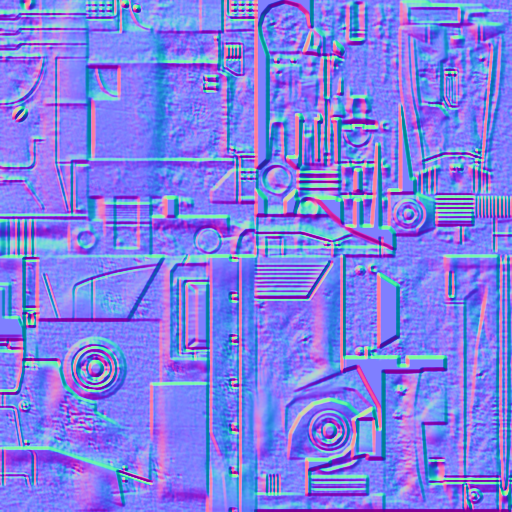
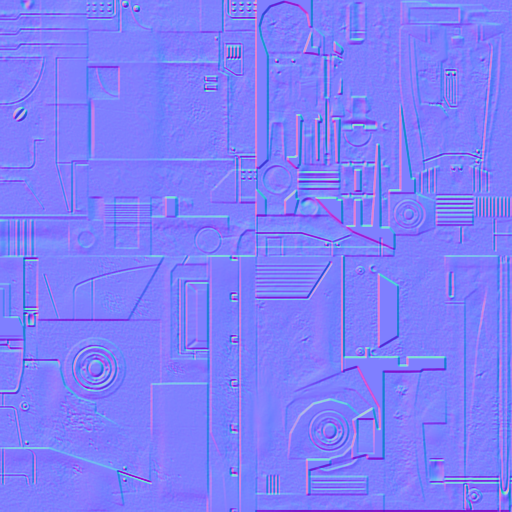
bump mapping works!

diff --git a/IETEngine/RenderingController.h b/IETEngine/RenderingController.h
@@ -156,9 +156,9 @@ namespace Controller
 	{
 		AbstractController::Init(argc,argv);  
 
-		this->d_camera->Position = glm::vec3(0.0f,0.0f,20.0f);
+		this->d_camera->Position = glm::vec3(0.0f,0.0f,0.0f);
 		d_camera->CameraType = FREE_FLY;
-		d_camera->MovementSpeed = 2.0f;
+		d_camera->MovementSpeed = 0.1f;
 		d_camera->SetTarget(glm::vec3(0,0,0)); 
 
 		//I know it may sound strange but new lambdas in C++ 11 are like this :-) I miss C# a bit :P
@@ -212,12 +212,12 @@ namespace Controller
 
 		d_sky_box = new SkyBox(skybox_faces);
 
-		d_nano_model	= new Model(FLOOR_BUMP);
+		d_nano_model	= new Model(DROID_BUMP);
 		/*d_torus_model->Translate(glm::vec3(-30,0,0));
 		d_cube_model->Translate(glm::vec3(-30,0,0));*/
 		//	d_torus_model->Scale(glm::vec3(10,10,10));
 		//d_nano_model->Scale(glm::vec3(20.0f,20.0f,20.0f));
-		//d_nano_model->Rotate(glm::vec3(1,0,0),glm::radians(-90.0f));
+		d_nano_model->Rotate(glm::vec3(1,0,0),glm::radians(-90.0f));
 		tweak_bar_setup();
 
 		d_light_position = glm::vec3(-10.0f,20.0f,0.0f); 
@@ -303,7 +303,7 @@ namespace Controller
 		d_shader_skybox->SetUniform("mvp", d_projection_matrix * glm::mat4(glm::mat3(d_view_matrix)));
 		d_shader_skybox->SetUniform("model_matrix", glm::mat4(1));
 
-	//	d_sky_box->Draw(*d_shader_skybox);
+		d_sky_box->Draw(*d_shader_skybox);
 
 
 		Point p(d_light_position,glm::vec4(1.0f,0.0f,0.0f,1.0f));

diff --git a/IETEngine/Texture.h b/IETEngine/Texture.h
@@ -75,15 +75,17 @@ bool Texture::Load(string directory)
 	//unsigned char* image = SOIL_load_image(filename.c_str(), &width, &height, nullptr, 0);
 	// Assign texture to ID
 	glBindTexture(GL_TEXTURE_2D, id);
-	glTexImage2D(GL_TEXTURE_2D,  0, GL_RGB, image->columns(), image->rows(), 0, GL_RGBA, GL_UNSIGNED_BYTE, blob.data());
+	glTexImage2D(GL_TEXTURE_2D,  0, GL_RGBA, image->columns(), image->rows(), 0, GL_RGBA, GL_UNSIGNED_BYTE, blob.data());
 
 	// Parameters
-	glTexParameteri( GL_TEXTURE_2D, GL_TEXTURE_WRAP_S, GL_REPEAT );
+	/*glTexParameteri( GL_TEXTURE_2D, GL_TEXTURE_WRAP_S, GL_REPEAT );
 	glTexParameteri( GL_TEXTURE_2D, GL_TEXTURE_WRAP_T, GL_REPEAT );
 	glTexParameteri( GL_TEXTURE_2D, GL_TEXTURE_MIN_FILTER, GL_LINEAR_MIPMAP_LINEAR );
 	glTexParameteri( GL_TEXTURE_2D, GL_TEXTURE_MAG_FILTER, GL_LINEAR);
 	glTexParameteri(GL_TEXTURE_2D, GL_GENERATE_MIPMAP, GL_TRUE);
-	glGenerateMipmap(GL_TEXTURE_2D);	
+	glGenerateMipmap(GL_TEXTURE_2D);	*/
+	glTexParameterf(GL_TEXTURE_2D, GL_TEXTURE_MIN_FILTER, GL_LINEAR);
+	glTexParameterf(GL_TEXTURE_2D, GL_TEXTURE_MAG_FILTER, GL_LINEAR); 
 
 	glBindTexture(GL_TEXTURE_2D, 0);
 

diff --git a/IETEngine/Model.h b/IETEngine/Model.h
@@ -368,7 +368,7 @@ namespace Rendering
 				float shininess = 0.0f;
 				aiGetMaterialFloat(aiMaterial, AI_MATKEY_SHININESS, &shininess);
 
-				material = Material(glmAmbient,glmDiffuse,glmSpecular,shininess);
+				material = Material(glmAmbient,glmDiffuse,glmSpecular,32.0f);
 
 				// We assume a convention for sampler names in the Shaders. Each diffuse texture should be named
 				// as 'texture_diffuseN' where N is a sequential number ranging from 1 to MAX_SAMPLER_NUMBER. 
@@ -386,7 +386,7 @@ namespace Rendering
 
 				// 3. Normal maps
 				vector<Texture> normalMaps = this->loadMaterialTextures(aiMaterial, aiTextureType_HEIGHT, TextureType_NORMAL);
-				textures.insert(textures.end(), normalMaps.begin(), normalMaps.end());
+				 textures.insert(textures.end(), normalMaps.begin(), normalMaps.end());
 
 				// 4. Ref maps
 				vector<Texture> reflMaps = this->loadMaterialTextures(aiMaterial, aiTextureType_AMBIENT, TextureType_REFLECTION);

diff --git a/IETEngine/common.h b/IETEngine/common.h
@@ -50,7 +50,8 @@ GLfloat lastX = VIEWPORT_WIDTH/2, lastY = VIEWPORT_HEIGHT/2;
 #define NANO_MODEL "models\\Nanosuit2\\nanosuit.dae"
 #define DROID_MODEL "models\\Droids\\droid.dae"
 #define CHURCH_MODEL "models\\sibenik\\sibenik.dae"
-#define DROID_BUMP "models\\nanosuit\\nanosuit.obj"
+#define NANOSUIT_BUMP "models\\nanosuit\\nanosuit.obj"
+#define DROID_BUMP "models\\Droids\\droid_bump_mapping.obj"
 #define FLOOR_BUMP "models\\plane_bump.obj"
 #define DROID_NO_WEAPON_MODEL "models\\Droids\\droid_no_weapon.dae"
  
